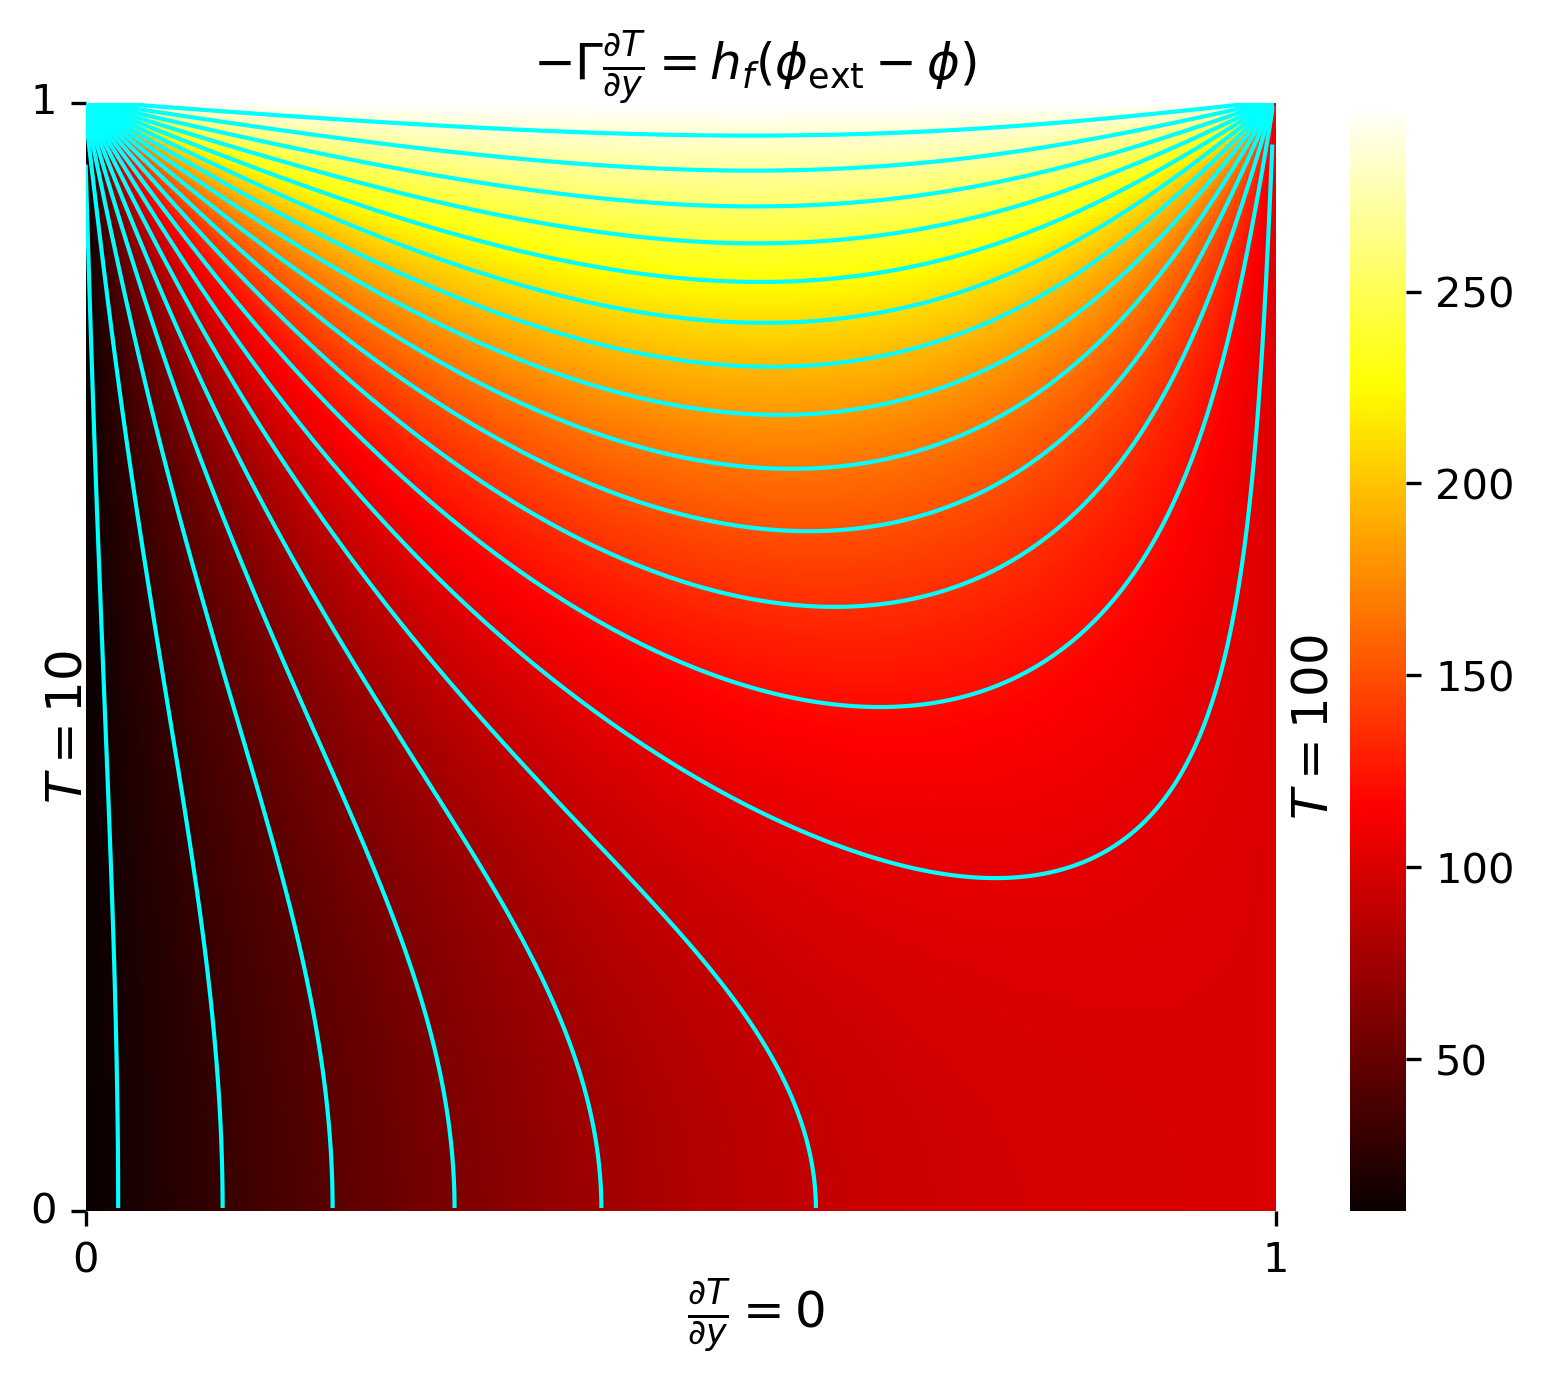
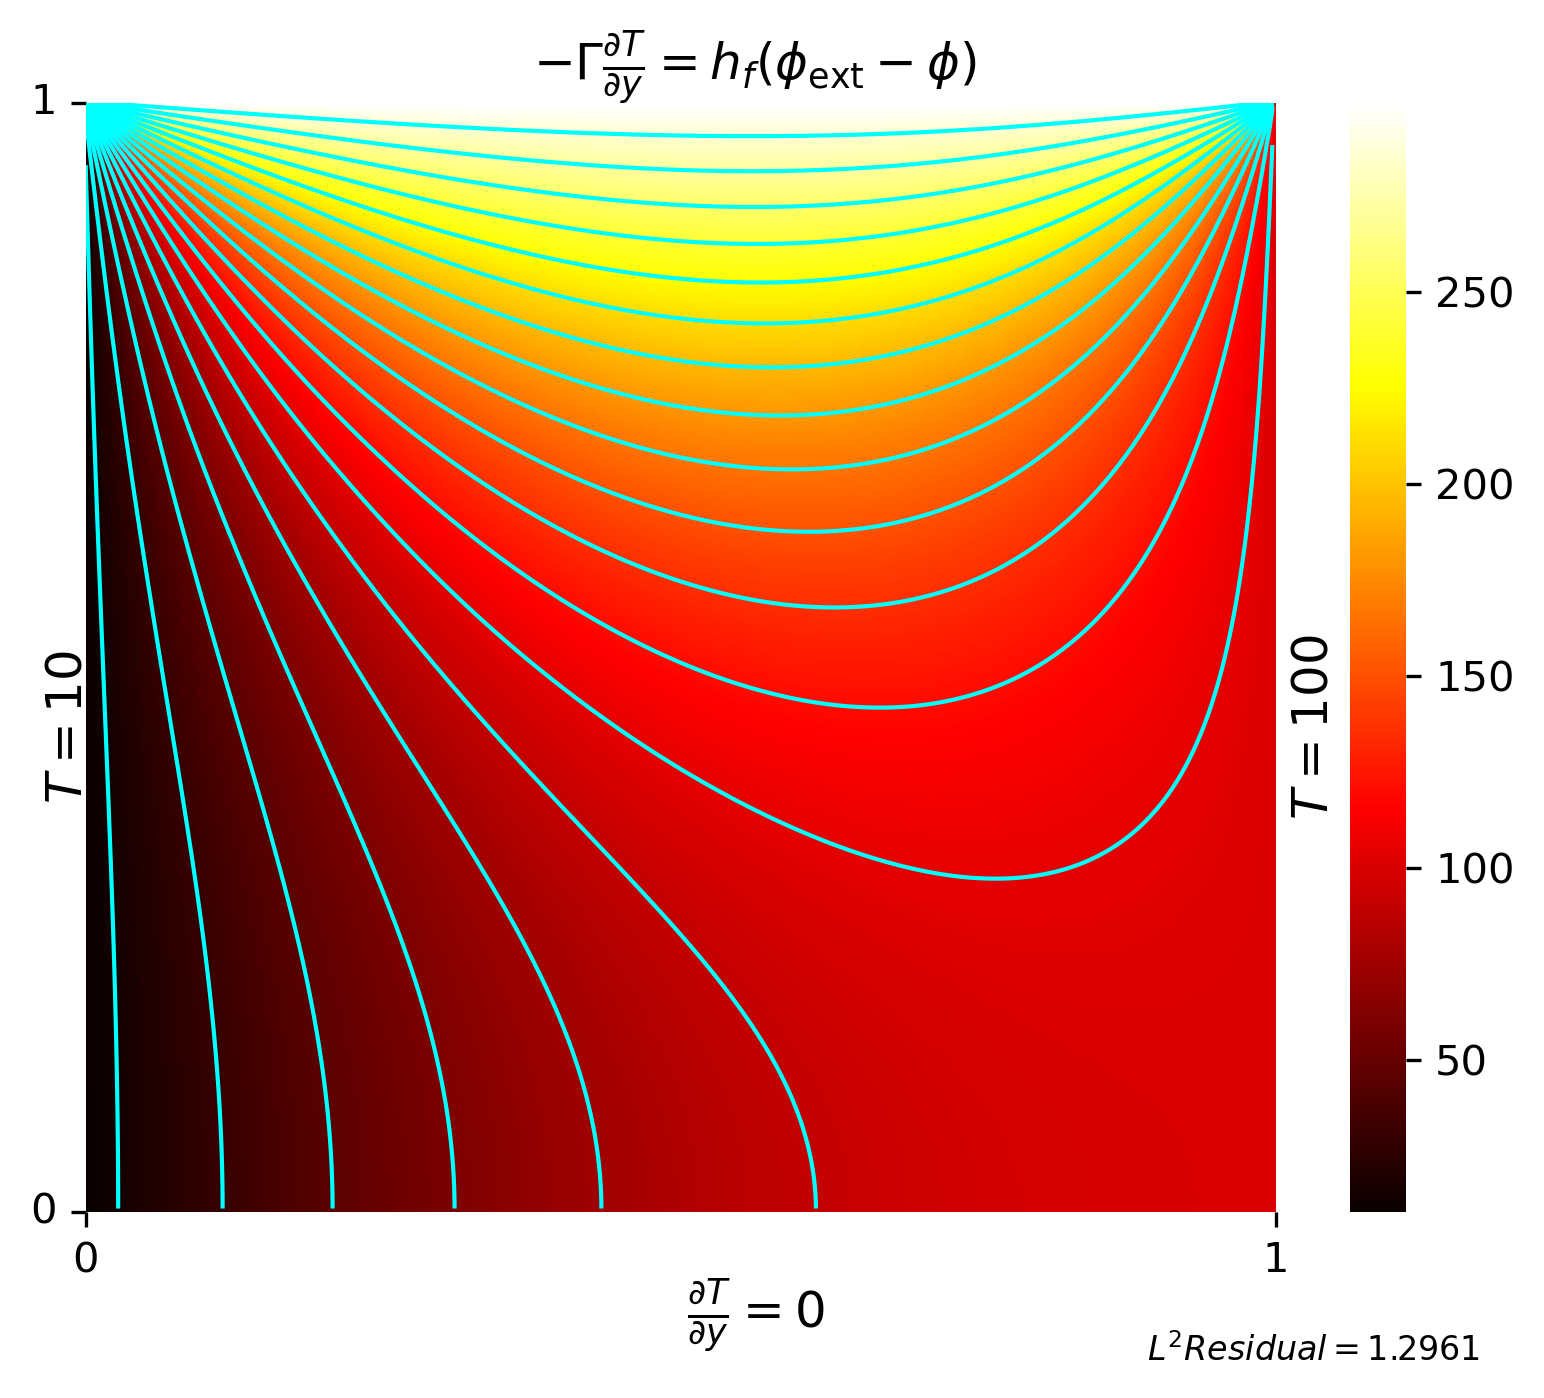
Tars!

diff --git a/heat_solver.py b/heat_solver.py
@@ -27,6 +27,8 @@ class HeatSolver:
     _b: np.ndarray
     _x: np.ndarray
     
+    error: float
+    
     
     def __init__(self, 
         L_x:        float=1,
@@ -59,6 +61,7 @@ class HeatSolver:
         self._A_cols = np.zeros((num_nonzero), dtype=np.int64)
 
         self._b = np.zeros((n_rows * n_cols, 1)).astype(np.float64)
+        
         
     
     def construct_problem(self):
@@ -126,6 +129,7 @@ class HeatSolver:
         x = solve(self._A, self._b)
         res = np.linalg.norm(self._b - self._A.dot(np.expand_dims(x, axis=1)))
         
+        self.error = res
         self._x = x.reshape(self.n_rows, self.n_cols)[::-1]
         
         return x, res
@@ -152,7 +156,10 @@ class HeatSolver:
         plt.text(-5, 180, '$T = 10$', ha='center', va='center', rotation=90, fontsize=12, weight='bold') 
         
         # RIGHT
-        plt.text(330, 180, '$T = 100$', ha='center', va='center', rotation=90, fontsize=12, weight='bold')  
+        plt.text(330, 180, '$T = 100$', ha='center', va='center', rotation=90, fontsize=12, weight='bold') 
+        
+         
+        plt.text(330, 360, f'$L^2 Residual = {np.round(self.error, 4)}$', ha='center', va='center', rotation=0, fontsize=8, weight='bold')  
         
         plt.savefig(name, dpi=300, bbox_inches="tight")
     

diff --git a/main.py b/main.py
@@ -1,4 +1,5 @@
 
+from matplotlib.ticker import FormatStrFormatter, FuncFormatter
 import numpy as np
 import sys
 from heat_solver import HeatSolver
@@ -32,15 +33,19 @@ def main():
         print(f"r: {r}, order of convergence: {O}")
         y.append(O)
 
-    fig, ax = plt.subplots()
-    ax.plot(x, y, marker='o', linestyle='-', color='b')
+    fig, ax = plt.subplots(figsize=(10, 6))
+    ax.plot(x-1, y, marker='o', linestyle='-', color='b')
 
     ax.set_xlabel("Inflation r")
+    ax.set_xscale('log')
+    ax.set_xticks((x-1)[::-1])
+    ax.set_xticklabels([f"{x_}"[:8] for x_ in x[::1]])
+
     ax.set_ylabel("Order of convergence")
     
+    fig.savefig("order_of_convergence.png", dpi=600)
     plt.show()
     
-    fig.savefig("order_of_convergence.png")
 
     return 0
 
